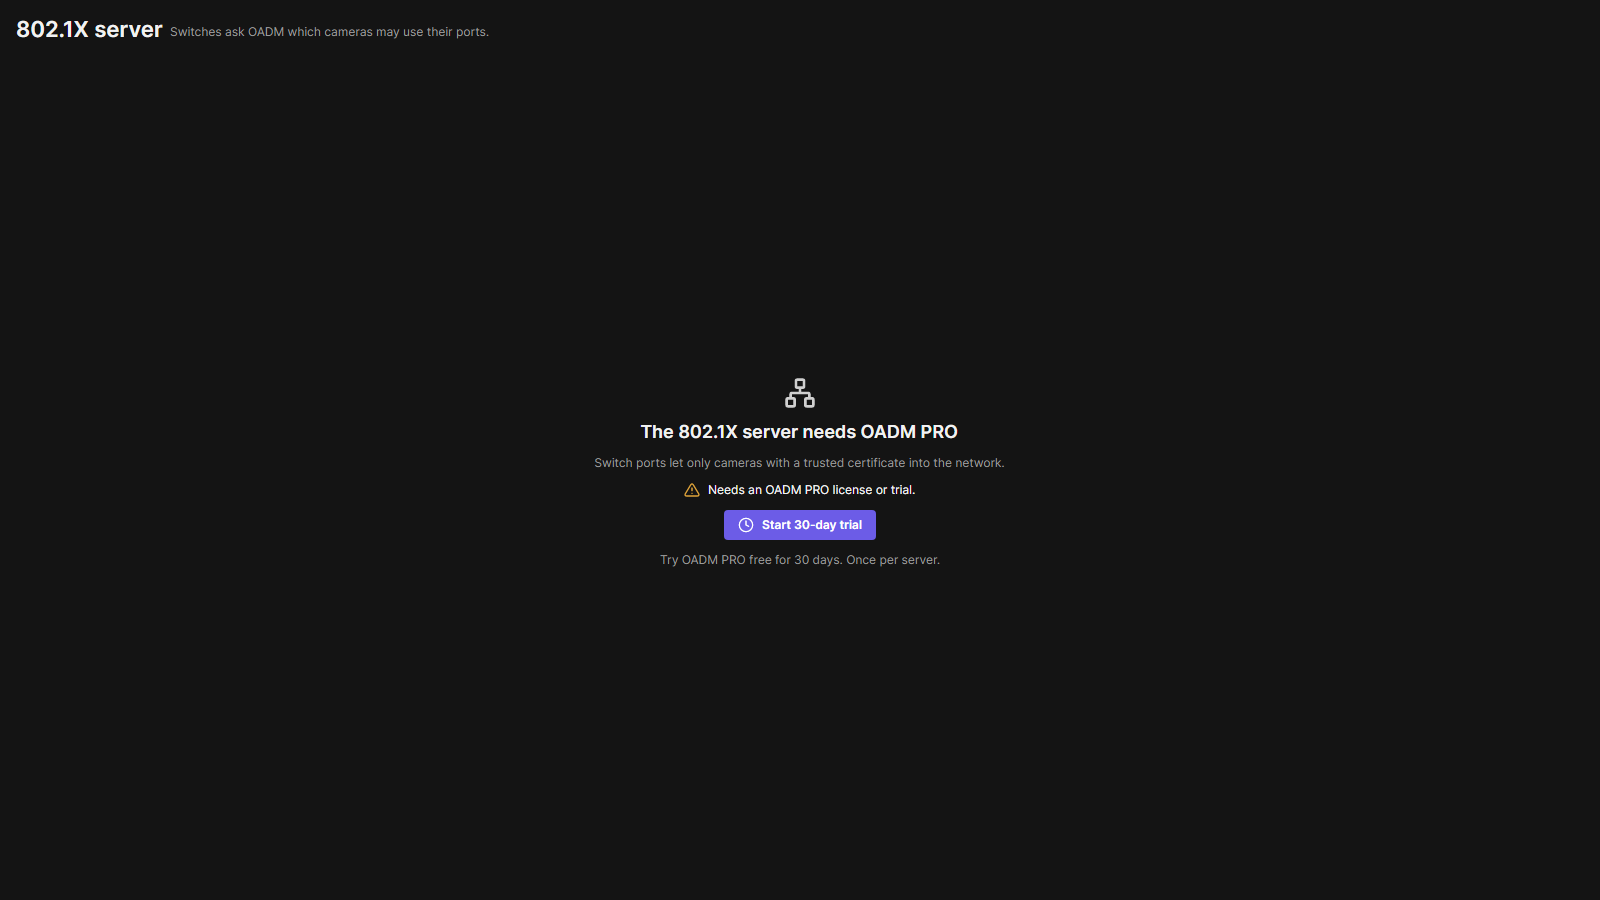
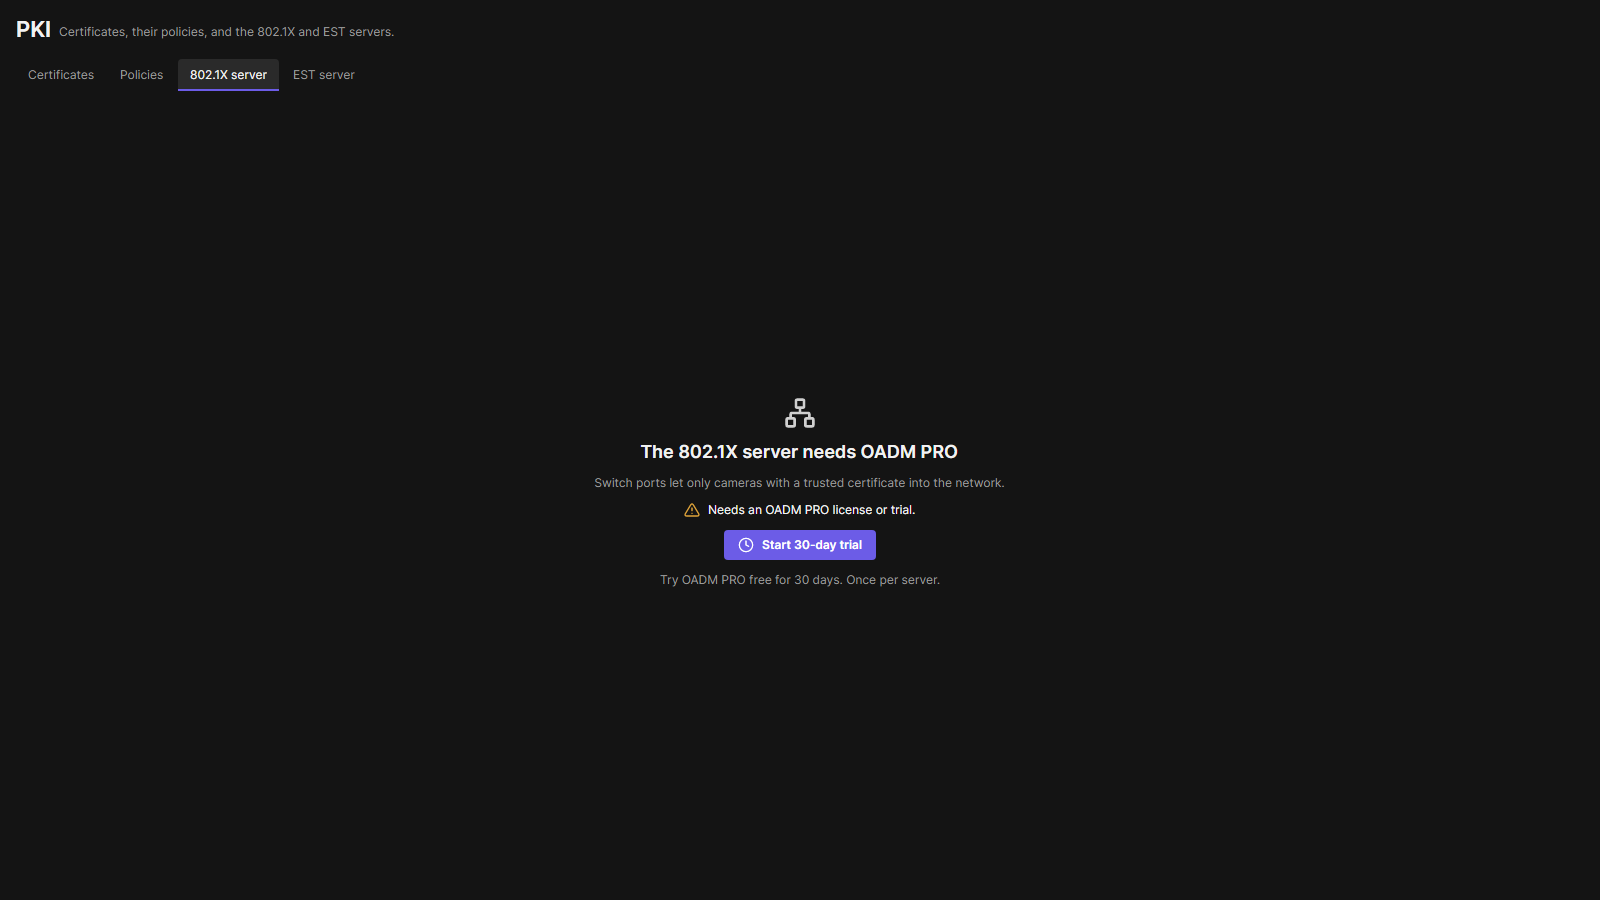
test(radius): the off state screenshot shows the 802.1X server tab inside the PKI page

Changed region(s): [[0.375, 0.4356, 0.625, 0.6533], [0.0, 0.0, 0.3125, 0.0933]]

diff --git a/tests/Oadm.Plugins.Radius.Tests/Client/PkiTabHeadlessTests.cs b/tests/Oadm.Plugins.Radius.Tests/Client/PkiTabHeadlessTests.cs
@@ -4,6 +4,7 @@ using Avalonia.VisualTree;
 
 using Oadm.Plugins.Pki;
 using Oadm.Plugins.Pki.Client;
+using Oadm.Plugins.Pki.Servers;
 using Oadm.Plugins.Radius.Client;
 using Oadm.Sdk.Client;
 using Oadm.Sdk.Client.Controls;
@@ -74,6 +75,46 @@ public sealed class PkiTabHeadlessTests
 
         Assert.True(checks.IsCertificatesTab);
         Assert.False(checks.radiusShown); // only the shown tab's view is in the window
+    }
+
+    [Fact]
+    public async Task Without_oadm_pro_the_tab_shows_the_off_state_with_the_trial()
+    {
+        // The website's picture of the off state (pki-tab-802-1x-trial.png): the tab as the user sees it, inside the PKI page.
+        var server = new FakeRadiusBackend
+        {
+            Switch = new ServerSwitchState(false, false, false, Oadm.Sdk.Licensing.ProLicenseTexts.NeedsPro, TrialAvailable: true),
+        };
+        var ctx = new FakePageContext(server);
+        var checks = await HeadlessEntry.Session.Dispatch(async () =>
+        {
+            var radius = new RadiusView();
+            using var radiusVm = new RadiusViewModel(ctx);
+            var est = new TextBlock { Text = "EST server" };
+            var pkiCtx = new PkiContext([new CorePluginTab(RadiusPluginInfo.PluginId, RadiusPluginInfo.DisplayName, radius), new CorePluginTab("oadm.est", "EST server", est)]);
+            var page = new PkiView();
+            using var pkiVm = new PkiViewModel(pkiCtx, new NoTrust());
+            pkiCtx.RequestTab(RadiusPluginInfo.PluginId);
+            var window = PkiHost(page, 1600, 900);
+            window.Show();
+            page.DataContext = pkiVm;
+            HeadlessPageTests.Pump();
+            radius.DataContext = radiusVm;
+            await radiusVm.LoadAllAsync(CancellationToken.None);
+            HeadlessPageTests.Pump();
+            HeadlessPageTests.Capture(window, "pki-tab-802-1x-trial.png");
+
+            var tabs = window.GetVisualDescendants().OfType<PageTab>().Where(t => t.IsEffectivelyVisible).Select(t => (t.Title, t.IsActive)).ToList();
+            var texts = window.GetVisualDescendants().OfType<TextBlock>().Where(t => t.IsEffectivelyVisible).Select(t => t.Text).ToList();
+            window.Close();
+            return (tabs, texts);
+        }, CancellationToken.None);
+
+        Assert.Contains(("802.1X server", true), checks.tabs);
+        Assert.Contains("PKI", checks.texts);
+        Assert.Contains("The 802.1X server needs OADM PRO", checks.texts);
+        Assert.Contains(Oadm.Sdk.Licensing.ProLicenseTexts.StartTrial, checks.texts);
+        Assert.DoesNotContain("Switches", checks.texts);
     }
 
     /// <summary>The real host page of PKI (title, subtitle, own cards).</summary>
